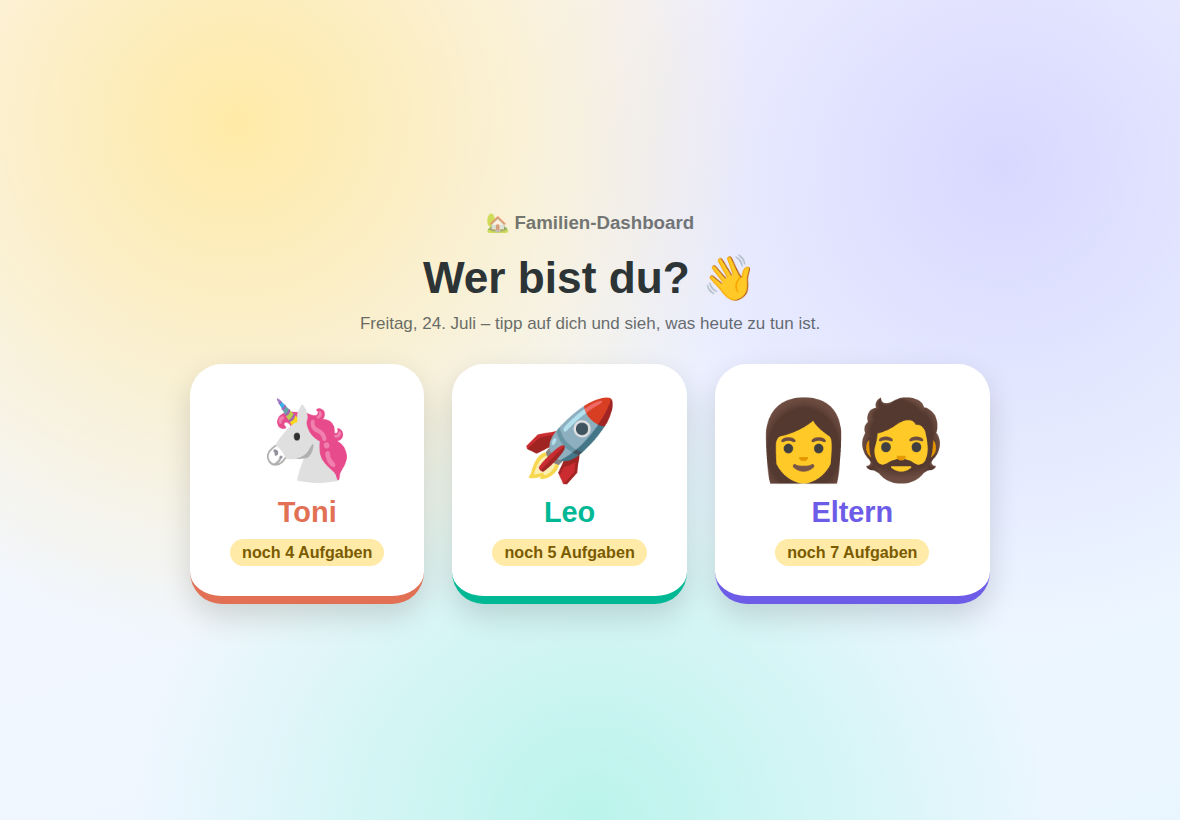
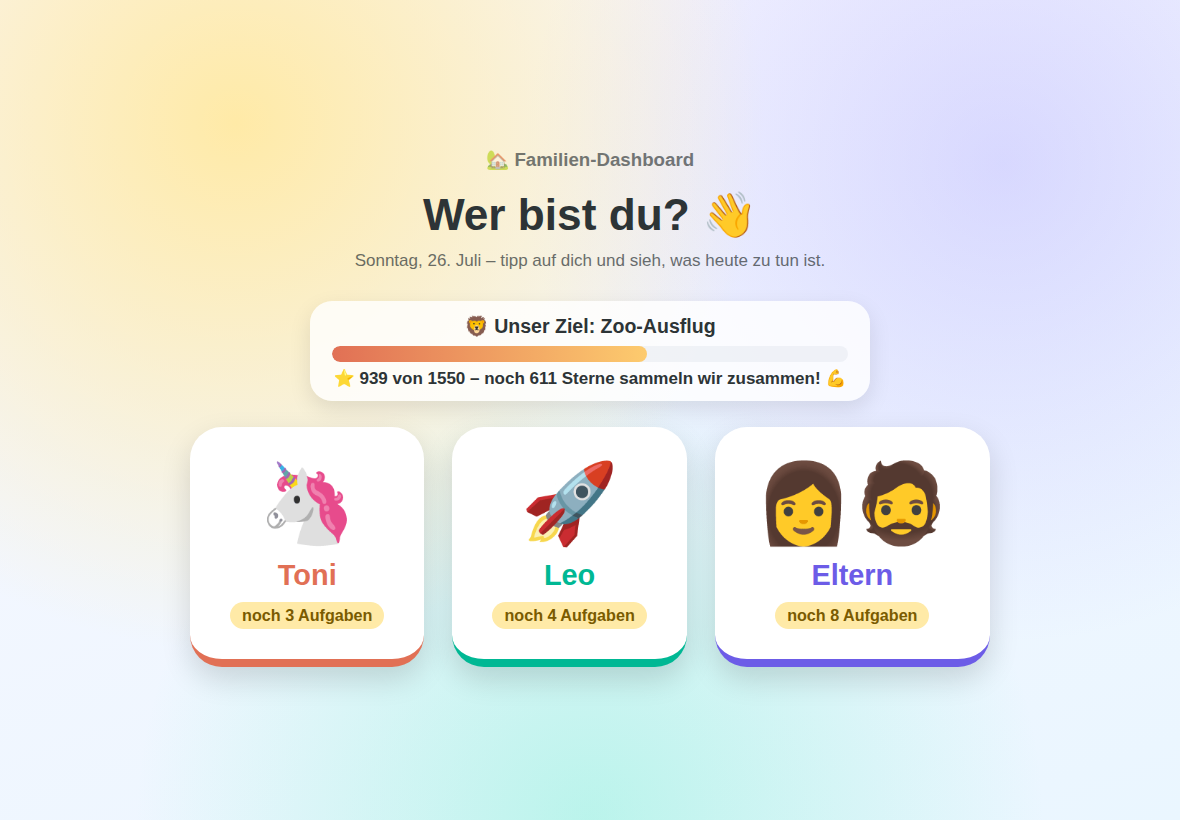
README: Screenshots aktualisiert
Neu erzeugt mit dem aktuellen Stand: Start-Bildschirm mit
Familienziel, Kinder-Board mit Ziel-Leiste, Abnahme mit getrennten
Einträgen pro Kind und Lob-Bausteinen, Wünsche & Sticker mit beiden
Bereichen im Bild. Datenstand für die Aufnahmen realistischer befüllt
(Wochen-Bilanz bei 74 %, Ziel gut zur Hälfte gefüllt); Bild-
beschreibungen entsprechend nachgezogen.

Claude-Session: https://claude.ai/code/session_01UejVp5Em4vCyHpwTQon1ay

Changed region(s): [[0.1525, 0.2134, 0.8542, 0.8232], [0.3966, 0.1829, 0.6102, 0.2134]]

diff --git a/README.md b/README.md
@@ -12,19 +12,19 @@ sich aber jederzeit anpassen.
 
 | Start: Wer bist du? | Kinder-Board |
 |---|---|
-| ![Start-Bildschirm mit Auswahl-Kacheln für Toni, Leo und Eltern](docs/screenshots/01-start.png) | ![Kinder-Board mit Belohnungsglas, Familienziel und Aufgaben-Spalten](docs/screenshots/02-kinder-board.png) |
+| ![Start-Bildschirm: gemeinsames Familienziel mit Fortschritt, darunter die Auswahl-Kacheln für Toni, Leo und Eltern](docs/screenshots/01-start.png) | ![Kinder-Board mit Belohnungsglas, Familienziel-Leiste und den Spalten „Zu tun" und „Geschafft"](docs/screenshots/02-kinder-board.png) |
 
 | Fokus mit Sanduhr | Wünsche & Sticker |
 |---|---|
-| ![Fokus-Bildschirm mit einer Aufgabe, Vorlesen und laufender Sanduhr](docs/screenshots/03-fokus-sanduhr.png) | ![Wünsche und Sticker: echte Belohnungen und Sammel-Sticker gegen Sterne](docs/screenshots/04-wuensche-sticker.png) |
+| ![Fokus-Bildschirm mit einer einzelnen Aufgabe, Vorlesen-Knopf und laufender Sanduhr](docs/screenshots/03-fokus-sanduhr.png) | ![Wünsche und Sticker: echte Belohnungen zum Wünschen und das Sticker-Album](docs/screenshots/04-wuensche-sticker.png) |
 
 | Eltern-Sperre | Heute-Ansicht (Eltern) |
 |---|---|
-| ![Eltern-Check: kleine Rechenaufgabe schützt die Eltern-Ansicht](docs/screenshots/05-eltern-sperre.png) | ![Heute-Ansicht mit Familienziel und Spalten pro Familienmitglied](docs/screenshots/06-heute.png) |
+| ![Eltern-Check: kleine Rechenaufgabe schützt die Eltern-Ansicht](docs/screenshots/05-eltern-sperre.png) | ![Heute-Ansicht mit Wochen-Bilanz, Familienziel und einer Spalte pro Familienmitglied](docs/screenshots/06-heute.png) |
 
 | Abnahme mit Lob-Bausteinen | |
 |---|---|
-| ![Abnahme-Ansicht: Kinder-Arbeit ohne Sterne-Note, mit konkreten Lob-Bausteinen](docs/screenshots/07-abnahme.png) | |
+| ![Abnahme-Ansicht: pro Kind ein eigener Eintrag, ohne Sterne-Note, mit konkreten Lob-Bausteinen](docs/screenshots/07-abnahme.png) | |
 
 ## ✨ Funktionen
 
